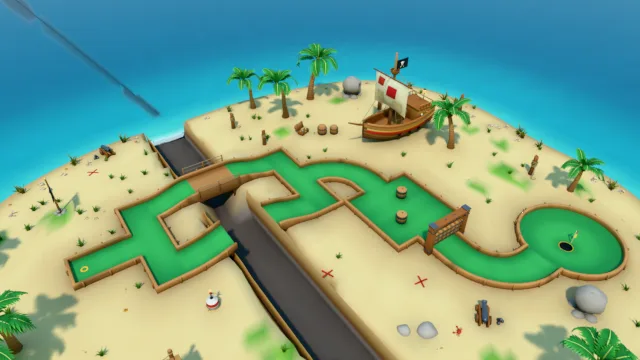
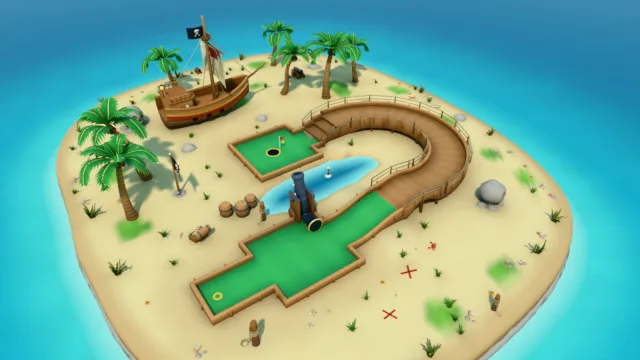
fix(minigolf): pirate world preview from Cannon Cove
The Kraken's Whirlpool preview showed its sea channel dry (the preview
water ring stops at the shore) and a streak from a close prop.

diff --git a/assets/minigolf/kit/previews.py b/assets/minigolf/kit/previews.py
@@ -23,7 +23,7 @@ from .palette import mix
 
 # Pirate: Kraken's Whirlpool (ship, fork over the strait); Temple: Stone Head (the head over its tunnel);
 # Moon: Orbit Loop (habitat, rover and the loop)
-COURSES = {"pirate": 6, "temple": 9, "moon": 18}
+COURSES = {"pirate": 4, "temple": 9, "moon": 18}
 SIZE = (640, 360)
 SAMPLES = 96
 MAX_BYTES = 80 * 1024

diff --git a/assets/minigolf/README.md b/assets/minigolf/README.md
@@ -53,7 +53,7 @@ provenance and rebuild steps are in [`audio/README.md`](audio/README.md).
 | `kits.py` | Builds each world's prop kit and its manifest entry. |
 | `props_pirate.py`, `props_temple.py`, `props_moon.py` | The props of each world (`PROPS`, `PROP_META`). Helpers: `props_pirate_*.py`, `ship_pirate.py`, `props_temple_*.py`, `head_temple*.py`, `props_moon_*.py`. |
 | `materials.py`, `palette.py`, `colors.py`, `shapes.py`, `prop.py`, `bake.py` | Shared materials, palettes, vertex colours, shape builders, prop composition and the ambient-occlusion bake. |
-| `previews.py` | Menu preview renders (Cycles, `--only previews`): the dressed showcase course of each world (`COURSES`: `pirate-06`, `temple-09`, `moon-18`), framed on its playable area. |
+| `previews.py` | Menu preview renders (Cycles, `--only previews`): the dressed showcase course of each world (`COURSES`: `pirate-04`, `temple-09`, `moon-18`), framed on its playable area. |
 | `probe.py`, `scene_<world>.py`, `stage.py`, `lane.py`, `compose.py` | Style probes and their stage helpers (not used by the build). |
 
 The contracts for these modules are in [`kit/AGENTS.md`](kit/AGENTS.md).
@@ -122,7 +122,7 @@ compare the SHA-256 of every course GLB and of the manifest between the two runs
 | 18 course GLBs | 15,190,960 bytes (largest moon-18 1,187,592; 494,248 triangles in all, most temple-12 with 33,877) |
 | `manifest.json` | 132,124 bytes (version 2, no collider arrays) |
 | Three prop kits | 5,029,080 bytes (pirate 1,771,100, temple 1,768,908, moon 1,489,072) |
-| Three previews | 90,356 bytes (pirate-06 24,396, temple-09 32,320, moon-18 33,640) |
+| Three previews | 89,892 bytes (pirate-04 23,932, temple-09 32,320, moon-18 33,640) |
 | Whole `ui/3d/minigolf/` package, including audio and previews | 23,302,639 bytes |
 
 The asset test enforces the budgets (course at most 1.25 MiB, 36,000 triangles and

diff --git a/documentation/minigolf.md b/documentation/minigolf.md
@@ -332,8 +332,8 @@ The aim preview re-simulates the shot in a cloned physics world with the same
 rolling code. Each course sets its own gravity (`gravity`, 9.81 or 4.0 m/s²); launch speed and
 rolling resistance are unchanged, and metal rails bounce with restitution 0.80.
 
-Menu previews are 640×360 Cycles renders, at most 80 KB each (this build 24,396 to
-33,640 bytes), rendered from the showcase holes `pirate-06`, `temple-09` and `moon-18`
+Menu previews are 640×360 Cycles renders, at most 80 KB each (this build 23,932 to
+33,640 bytes), rendered from the showcase holes `pirate-04`, `temple-09` and `moon-18`
 and framed on the playable area. They are not bit-reproducible, so they are built
 separately from the course and kit build (`--only previews`).
 

diff --git a/assets/minigolf/kit/AGENTS.md b/assets/minigolf/kit/AGENTS.md
@@ -11,7 +11,7 @@ course set). The package builds:
 - the courses of `course_data_<world>.py` through the track kit and `courses.py`
   (`course-NN.glb`, manifest version 2, see "Course pipeline (P3)"),
 - the menu previews (`--only previews`): the dressed showcase course of each world, rendered with
-  Cycles (`previews.COURSES`: `pirate-06`, `temple-09`, `moon-18`, camera fitted to the playable area).
+  Cycles (`previews.COURSES`: `pirate-04`, `temple-09`, `moon-18`, camera fitted to the playable area).
 
 `--out` defaults to the runtime folder `ui/3d/minigolf`; kits and previews are written to `--out` as well.
 Build into a scratch folder under `assets/minigolf/build/` (ignored by git) while a course is tuned.
